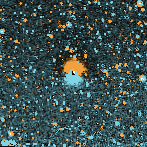
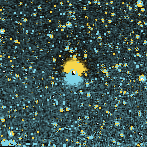
feat: Replace orange data encoding with star yellow in tokens, GL table and rendered Diff plates

diff --git a/apps/web/src/app.css b/apps/web/src/app.css
@@ -16,8 +16,9 @@
   --accent-strong: #1d45b8;
   --accent-ink: #ffffff;
   --accent-on-plate: #7aa7ff;
-  --co2: #a85a14;
-  --co2-on-plate: #f2a03d;
+  /* CO2 band and positive Diff lambda: star yellow. With cyan it is a colour-blind-safe diverging pair. */
+  --co2: #a88700;
+  --co2-on-plate: #f5d54a;
   --co: #1c6e73;
   --co-on-plate: #7fd4e6;
   --h2o: #3550c4;
@@ -45,7 +46,7 @@
     --accent: #7aa7ff;
     --accent-strong: #a6c4ff;
     --accent-ink: #061033;
-    --co2: #e39a45;
+    --co2: #f2d24b;
     --co: #5fbfc7;
     --h2o: #8fa5ff;
     --signal: #ff6b57;

diff --git a/apps/web/src/lib/components/AladinFrame.svelte b/apps/web/src/lib/components/AladinFrame.svelte
@@ -57,7 +57,7 @@
       gaia = factory.catalog({
         name: "Gaia DR3",
         sourceSize: 6,
-        color: "#F2A03D",
+        color: "#7AA7FF",
       });
       viewer.addCatalog(gaia);
     }
@@ -150,7 +150,7 @@
         showCooLocation: false,
         showStatusBar: false,
         showReticle: true,
-        reticleColor: "#F2A03D",
+        reticleColor: "#7AA7FF",
         survey: hips.url,
       });
       survey = viewer.newImageSurvey(hips.url, {

diff --git a/apps/web/src/lib/gl/renderer.ts b/apps/web/src/lib/gl/renderer.ts
@@ -125,7 +125,7 @@ export class PlateRenderer {
         t = i / 255;
       if (difference) {
         a = t < 0.5 ? [127, 212, 230] : dark;
-        b = t < 0.5 ? dark : [242, 160, 61];
+        b = t < 0.5 ? dark : [245, 213, 74];
         t = t < 0.5 ? t * 2 : (t - 0.5) * 2;
       }
       for (let c = 0; c < 3; c++)

diff --git a/apps/web/src/lib/components/Explorer.svelte b/apps/web/src/lib/components/Explorer.svelte
@@ -991,7 +991,7 @@
     --accent: #7aa7ff;
     --accent-strong: #a6c4ff;
     --accent-ink: #061033;
-    --co2: #e39a45;
+    --co2: #f2d24b;
     --co: #5fbfc7;
     --h2o: #8fa5ff;
     --signal: #ff6b57;

diff --git a/apps/web/src/routes/+page.svelte b/apps/web/src/routes/+page.svelte
@@ -335,7 +335,7 @@
     --accent: #7aa7ff;
     --accent-strong: #a6c4ff;
     --accent-ink: #061033;
-    --co2: #f2a03d;
+    --co2: #f5d54a;
     --co: #7fd4e6;
     --h2o: #8fa5ff;
     --signal: #ff6b57;

diff --git a/apps/web/src/lib/components/Inspector.svelte b/apps/web/src/lib/components/Inspector.svelte
@@ -139,7 +139,7 @@
     --ink-2: #c9c2b4;
     --graphite: #9a9488;
     --rule: #34312a;
-    --co2: #e39a45;
+    --co2: #f2d24b;
     --accent: #7aa7ff;
     --accent-ink: #061033;
     --co: #5fbfc7;

diff --git a/apps/web/src/lib/components/landing/BlinkSection.svelte b/apps/web/src/lib/components/landing/BlinkSection.svelte
@@ -209,7 +209,7 @@
     stroke: var(--plate-ink);
   }
   .arrow {
-    stroke: var(--co2-on-plate);
+    stroke: var(--accent-on-plate);
     stroke-dasharray: 1;
     stroke-dashoffset: 1;
   }

diff --git a/pipelines/landing_media.py b/pipelines/landing_media.py
@@ -33,7 +33,7 @@ OVERFLOW, NODATA = 1 << 1, 1 << 13
 PLATE = np.array([11, 11, 10], float)
 PLATE_INK = np.array([236, 231, 220], float)
 CYAN = np.array([127, 212, 230], float)
-OCHRE = np.array([242, 160, 61], float)
+GOLD = np.array([245, 213, 74], float)  # positive Diff lambda; matches --co2-on-plate
 CREDITS = [
     "SPHEREx: NASA/JPL-Caltech/IRSA (DR1 + QR3, L2 l2b-v27)",
     "Gaia DR3: ESA/Gaia/DPAC",
@@ -90,7 +90,7 @@ def stretch_rgb(flux, flags, lo, hi):
 def diverging_rgb(value, flags, sigma):
     t = np.clip(0.5 + 0.5 * np.nan_to_num(value) / (5 * max(sigma, 1e-10)), 0, 1)
     low = np.where(t[..., None] < 0.5, CYAN, PLATE)
-    high = np.where(t[..., None] < 0.5, PLATE, OCHRE)
+    high = np.where(t[..., None] < 0.5, PLATE, GOLD)
     u = np.where(t < 0.5, t * 2, (t - 0.5) * 2)
     rgb = low + (high - low) * u[..., None]
     empty = ~np.isfinite(value) | ((flags & NODATA) != 0)

diff --git a/docs/FINDINGS.md b/docs/FINDINGS.md
@@ -132,7 +132,7 @@ Lighthouse 13.6 (installed outside the repo, Playwright's Chromium), against pro
 - **Offered, not forced:** a first visit shows a small dismissible card after 2.5 s (remembered in `localStorage`); `?tour=1` and the "How it works" button start it. A modal on every first load would also have blocked every existing E2E flow.
 - **Redesign requested by the user:** Geist / Geist Mono replace Newsreader and IBM Plex (both OFL-1.1, checked in `node_modules`; the Latin Geist file is 29 KB against 129 KB for Newsreader); interface accent is a galaxy blue (`--accent`), pill buttons, rounded panels instead of hairlines, § numbers and the hero kicker removed, the hero grid replaced by `Starfield.svelte`.
 - **Starfield cost:** static SVG dots and four hand-placed constellations drifting as whole layers with CSS transforms, plus seven twinkles; no canvas, no `requestAnimationFrame`, disabled under reduced motion.
-- **Orange that remains, on purpose:** `--co2` still colours the CO₂ band and positive Diff λ. Those are data encodings, and the Diff λ plate on the landing has the colour baked in by `pipelines/landing_media.py`; changing them means re-rendering and touching the GL colour table (`src/lib/gl/renderer.ts`). Not done.
+- **Data colours (changed afterwards at the user's request):** the CO₂ band and positive Diff λ moved from orange to star yellow (`--co2` `#a88700` light / `#f2d24b` dark, `--co2-on-plate` `#f5d54a`). Yellow was chosen over pink because cyan–yellow stays distinguishable under red-green colour blindness, while cyan–pink does not. Changed in three places that must agree: the CSS tokens, the GL colour table (`src/lib/gl/renderer.ts`) and `pipelines/landing_media.py` (`GOLD`). The pipeline was re-run: only the two diverging Barnard plates and the manifest's date/byte counts changed; the other 26 files came out byte-identical. The Gaia marker in Lab (Aladin) and the blink arrow use the blue accent. `docs/BUILD.md` §design tokens still lists the old orange: that document was not edited, this is a recorded deviation.
 - **Bug caught before commit:** a rule meant to lift header/main/footer above the starfield also matched the tour container and cancelled its `position: fixed`, making the tour invisible; the tour screenshots failed and the rule was narrowed.
 - The explorer keeps a night-sky theme in both colour schemes (it displays dark plates). `/comets`, `/method`, `/about` and `/neo` inherit the new tokens and font but were **not** restyled panel by panel.
 - Tests: `tour.spec.ts` (5 E2E). Local: svelte-check 0/0, Vitest 44, E2E 45 passed + the 2 live-API tests that only pass against production.
